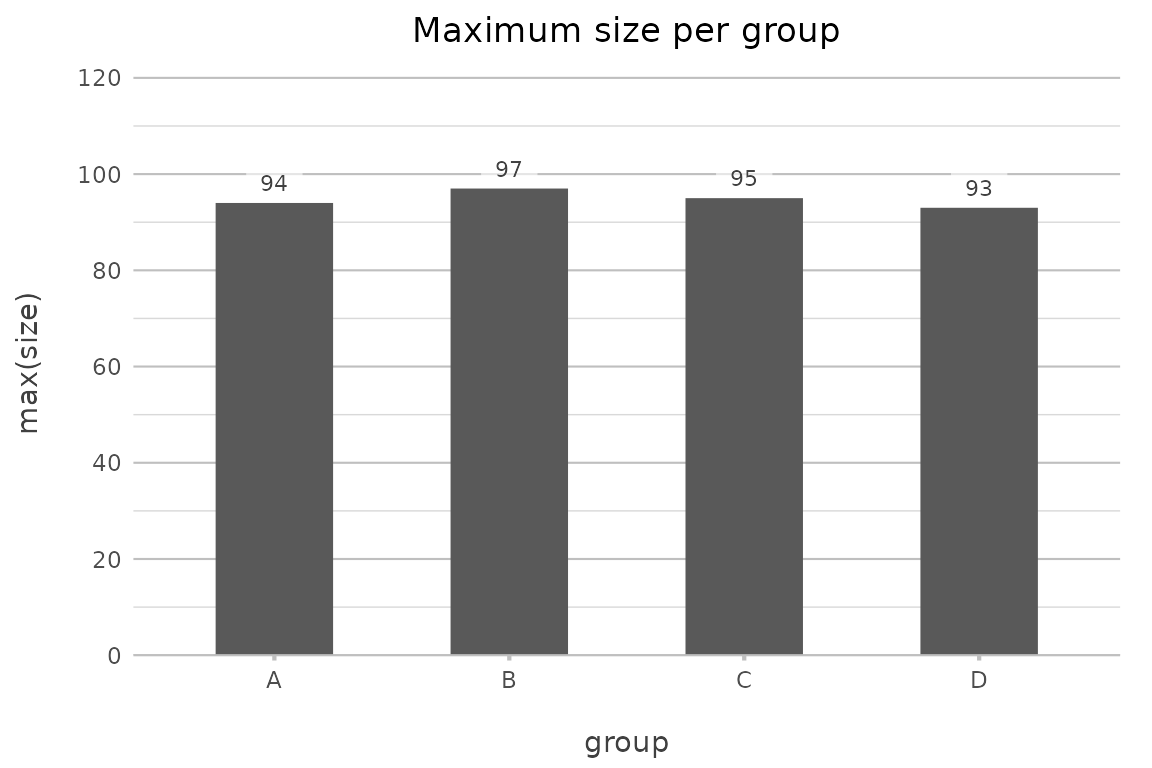
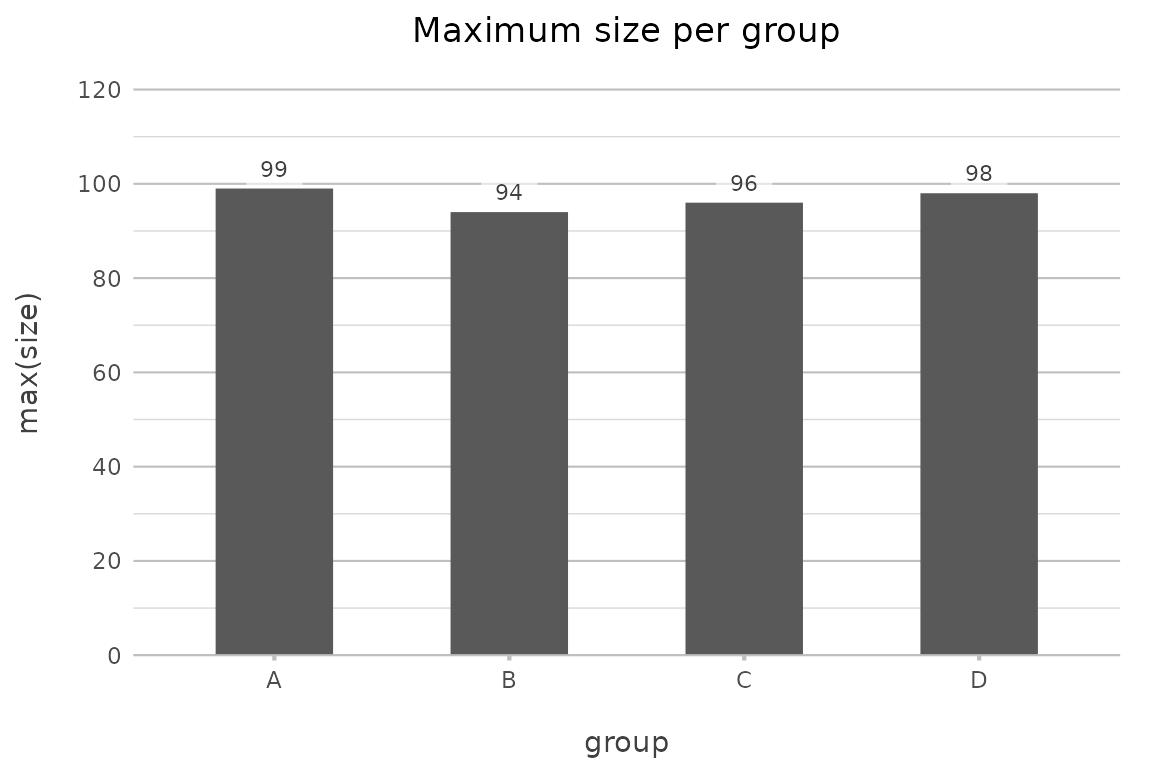
Built site for certeplot2: 1.23.8@2ec3c6a

diff --git a/reference/plotly.html b/reference/plotly.html
@@ -17,7 +17,7 @@
       </button>
       <span class="navbar-brand">
         <a class="navbar-link" href="../index.html">certeplot2</a>
-        <span class="version label label-default" data-toggle="tooltip" data-placement="bottom" title="">1.23.7</span>
+        <span class="version label label-default" data-toggle="tooltip" data-placement="bottom" title="">1.23.8</span>
       </span>
     </div>
 
@@ -107,7 +107,7 @@
 <span class="r-in"><span>  <span class="fu">as_plotly</span><span class="op">(</span><span class="op">)</span></span></span>
 <span class="r-msg co"><span class="r-pr">#&gt;</span> <span style="color: #008787;">i</span> <span style="color: #080808;">Using </span><span style="color: #008787;">type = "point"</span><span style="color: #080808;"> since both axes are numeric</span></span>
 <div id="htmlwidget-f7d45bed559e735076bb" style="width:700px;height:432.632880098888px;" class="plotly html-widget"></div>
-<script type="application/json" data-for="htmlwidget-f7d45bed559e735076bb">{"x":{"data":[{"x":[10.4,10.4,13.300000000000001,14.300000000000001,14.699999999999999,15,15.199999999999999,15.199999999999999,15.5,15.800000000000001,16.399999999999999,17.300000000000001,17.800000000000001,18.100000000000001,18.699999999999999,19.199999999999999,19.199999999999999,19.699999999999999,21,21,21.399999999999999,21.399999999999999,21.5,22.800000000000001,22.800000000000001,24.399999999999999,26,27.300000000000001,30.399999999999999,30.399999999999999,32.399999999999999,33.899999999999999],"y":[205,215,245,245,230,335,180,150,150,264,180,180,123,105,175,123,175,175,110,110,110,109,97,93,95,62,91,66,52,113,66,65],"text":["hp: 205<br />mpg: 10.4","hp: 215<br />mpg: 10.4","hp: 245<br />mpg: 13.3","hp: 245<br />mpg: 14.3","hp: 230<br />mpg: 14.7","hp: 335<br />mpg: 15.0","hp: 180<br />mpg: 15.2","hp: 150<br />mpg: 15.2","hp: 150<br />mpg: 15.5","hp: 264<br />mpg: 15.8","hp: 180<br />mpg: 16.4","hp: 180<br />mpg: 17.3","hp: 123<br />mpg: 17.8","hp: 105<br />mpg: 18.1","hp: 175<br />mpg: 18.7","hp: 123<br />mpg: 19.2","hp: 175<br />mpg: 19.2","hp: 175<br />mpg: 19.7","hp: 110<br />mpg: 21.0","hp: 110<br />mpg: 21.0","hp: 110<br />mpg: 21.4","hp: 109<br />mpg: 21.4","hp:  97<br />mpg: 21.5","hp:  93<br />mpg: 22.8","hp:  95<br />mpg: 22.8","hp:  62<br />mpg: 24.4","hp:  91<br />mpg: 26.0","hp:  66<br />mpg: 27.3","hp:  52<br />mpg: 30.4","hp: 113<br />mpg: 30.4","hp:  66<br />mpg: 32.4","hp:  65<br />mpg: 33.9"],"type":"scatter","mode":"markers","marker":{"autocolorscale":false,"color":"rgba(0,0,0,1)","opacity":1,"size":7.559055118110237,"symbol":"circle","line":{"width":1.8897637795275593,"color":"rgba(0,0,0,1)"}},"hoveron":"points","showlegend":false,"xaxis":"x","yaxis":"y","hoverinfo":"text","frame":null}],"layout":{"margin":{"t":39.910336239103358,"r":15.940224159402243,"b":35.599833955998349,"l":41.444582814445837},"plot_bgcolor":"rgba(255,255,255,1)","paper_bgcolor":"rgba(255,255,255,1)","font":{"color":"rgba(0,0,0,1)","family":"","size":14.611872146118724},"title":{"text":"Hp per mpg","font":{"color":"rgba(0,0,0,1)","family":"","size":17.268576172685762},"x":0.5,"xref":"paper"},"xaxis":{"domain":[0,1],"automargin":true,"type":"linear","autorange":false,"range":[-1.6950000000000001,35.594999999999999],"tickmode":"array","ticktext":["0","10","20","30"],"tickvals":[0,10,20,30],"categoryorder":"array","categoryarray":["0","10","20","30"],"nticks":null,"ticks":"outside","tickcolor":"rgba(191,191,191,1)","ticklen":2.6567040265670401,"tickwidth":0.9962640099626402,"showticklabels":true,"tickfont":{"color":"rgba(77,77,77,1)","family":"","size":11.68949771689498},"tickangle":-0,"showline":true,"linecolor":"rgba(191,191,191,1)","linewidth":0.4981320049813201,"showgrid":false,"gridcolor":null,"gridwidth":0,"zeroline":false,"anchor":"y","title":{"text":"mpg","font":{"color":"rgba(64,64,64,1)","family":"","size":14.611872146118724}},"hoverformat":".2f"},"yaxis":{"domain":[0,1],"automargin":true,"type":"linear","autorange":false,"range":[0,418.75],"tickmode":"array","ticktext":["0","100","200","300","400"],"tickvals":[0,100,200,300,400],"categoryorder":"array","categoryarray":["0","100","200","300","400"],"nticks":null,"ticks":"","tickcolor":null,"ticklen":2.6567040265670401,"tickwidth":0,"showticklabels":true,"tickfont":{"color":"rgba(77,77,77,1)","family":"","size":11.68949771689498},"tickangle":-0,"showline":false,"linecolor":null,"linewidth":0,"showgrid":true,"gridcolor":"rgba(191,191,191,1)","gridwidth":0.4981320049813201,"zeroline":false,"anchor":"x","title":{"text":"hp","font":{"color":"rgba(64,64,64,1)","family":"","size":14.611872146118724}},"hoverformat":".2f"},"shapes":[{"type":"rect","fillcolor":null,"line":{"color":null,"width":0,"linetype":[]},"yref":"paper","xref":"paper","x0":0,"x1":1,"y0":0,"y1":1}],"showlegend":false,"legend":{"bgcolor":null,"bordercolor":null,"borderwidth":0,"font":{"color":"rgba(0,0,0,1)","family":"","size":11.955168119551683},"title":{"text":"","font":{"color":"rgba(0,0,0,1)","family":"","size":13.283520132835198}}},"hovermode":"closest","barmode":"relative"},"config":{"doubleClick":"reset","modeBarButtonsToAdd":["hoverclosest","hovercompare"],"showSendToCloud":false},"source":"A","attrs":{"1b7b64a26a8a":{"y":{},"x":{},"type":"scatter"}},"cur_data":"1b7b64a26a8a","visdat":{"1b7b64a26a8a":["function (y) ","x"]},"highlight":{"on":"plotly_click","persistent":false,"dynamic":false,"selectize":false,"opacityDim":0.20000000000000001,"selected":{"opacity":1},"debounce":0},"shinyEvents":["plotly_hover","plotly_click","plotly_selected","plotly_relayout","plotly_brushed","plotly_brushing","plotly_clickannotation","plotly_doubleclick","plotly_deselect","plotly_afterplot","plotly_sunburstclick"],"base_url":"https://plot.ly"},"evals":[],"jsHooks":[]}</script><span class="r-in"><span>  </span></span>
+<script type="application/json" data-for="htmlwidget-f7d45bed559e735076bb">{"x":{"data":[{"x":[10.4,10.4,13.300000000000001,14.300000000000001,14.699999999999999,15,15.199999999999999,15.199999999999999,15.5,15.800000000000001,16.399999999999999,17.300000000000001,17.800000000000001,18.100000000000001,18.699999999999999,19.199999999999999,19.199999999999999,19.699999999999999,21,21,21.399999999999999,21.399999999999999,21.5,22.800000000000001,22.800000000000001,24.399999999999999,26,27.300000000000001,30.399999999999999,30.399999999999999,32.399999999999999,33.899999999999999],"y":[205,215,245,245,230,335,180,150,150,264,180,180,123,105,175,123,175,175,110,110,110,109,97,93,95,62,91,66,52,113,66,65],"text":["hp: 205<br />mpg: 10.4","hp: 215<br />mpg: 10.4","hp: 245<br />mpg: 13.3","hp: 245<br />mpg: 14.3","hp: 230<br />mpg: 14.7","hp: 335<br />mpg: 15.0","hp: 180<br />mpg: 15.2","hp: 150<br />mpg: 15.2","hp: 150<br />mpg: 15.5","hp: 264<br />mpg: 15.8","hp: 180<br />mpg: 16.4","hp: 180<br />mpg: 17.3","hp: 123<br />mpg: 17.8","hp: 105<br />mpg: 18.1","hp: 175<br />mpg: 18.7","hp: 123<br />mpg: 19.2","hp: 175<br />mpg: 19.2","hp: 175<br />mpg: 19.7","hp: 110<br />mpg: 21.0","hp: 110<br />mpg: 21.0","hp: 110<br />mpg: 21.4","hp: 109<br />mpg: 21.4","hp:  97<br />mpg: 21.5","hp:  93<br />mpg: 22.8","hp:  95<br />mpg: 22.8","hp:  62<br />mpg: 24.4","hp:  91<br />mpg: 26.0","hp:  66<br />mpg: 27.3","hp:  52<br />mpg: 30.4","hp: 113<br />mpg: 30.4","hp:  66<br />mpg: 32.4","hp:  65<br />mpg: 33.9"],"type":"scatter","mode":"markers","marker":{"autocolorscale":false,"color":"rgba(0,0,0,1)","opacity":1,"size":7.559055118110237,"symbol":"circle","line":{"width":1.8897637795275593,"color":"rgba(0,0,0,1)"}},"hoveron":"points","showlegend":false,"xaxis":"x","yaxis":"y","hoverinfo":"text","frame":null}],"layout":{"margin":{"t":39.910336239103358,"r":15.940224159402243,"b":35.599833955998349,"l":41.444582814445837},"plot_bgcolor":"rgba(255,255,255,1)","paper_bgcolor":"rgba(255,255,255,1)","font":{"color":"rgba(0,0,0,1)","family":"","size":14.611872146118724},"title":{"text":"Hp per mpg","font":{"color":"rgba(0,0,0,1)","family":"","size":17.268576172685762},"x":0.5,"xref":"paper"},"xaxis":{"domain":[0,1],"automargin":true,"type":"linear","autorange":false,"range":[-1.6950000000000001,35.594999999999999],"tickmode":"array","ticktext":["0","10","20","30"],"tickvals":[0,10,20,30],"categoryorder":"array","categoryarray":["0","10","20","30"],"nticks":null,"ticks":"outside","tickcolor":"rgba(191,191,191,1)","ticklen":2.6567040265670401,"tickwidth":0.9962640099626402,"showticklabels":true,"tickfont":{"color":"rgba(77,77,77,1)","family":"","size":11.68949771689498},"tickangle":-0,"showline":true,"linecolor":"rgba(191,191,191,1)","linewidth":0.4981320049813201,"showgrid":false,"gridcolor":null,"gridwidth":0,"zeroline":false,"anchor":"y","title":{"text":"mpg","font":{"color":"rgba(64,64,64,1)","family":"","size":14.611872146118724}},"hoverformat":".2f"},"yaxis":{"domain":[0,1],"automargin":true,"type":"linear","autorange":false,"range":[0,418.75],"tickmode":"array","ticktext":["0","100","200","300","400"],"tickvals":[0,100,200,300,400],"categoryorder":"array","categoryarray":["0","100","200","300","400"],"nticks":null,"ticks":"","tickcolor":null,"ticklen":2.6567040265670401,"tickwidth":0,"showticklabels":true,"tickfont":{"color":"rgba(77,77,77,1)","family":"","size":11.68949771689498},"tickangle":-0,"showline":false,"linecolor":null,"linewidth":0,"showgrid":true,"gridcolor":"rgba(191,191,191,1)","gridwidth":0.4981320049813201,"zeroline":false,"anchor":"x","title":{"text":"hp","font":{"color":"rgba(64,64,64,1)","family":"","size":14.611872146118724}},"hoverformat":".2f"},"shapes":[{"type":"rect","fillcolor":null,"line":{"color":null,"width":0,"linetype":[]},"yref":"paper","xref":"paper","x0":0,"x1":1,"y0":0,"y1":1}],"showlegend":false,"legend":{"bgcolor":null,"bordercolor":null,"borderwidth":0,"font":{"color":"rgba(0,0,0,1)","family":"","size":11.955168119551683},"title":{"text":"","font":{"color":"rgba(0,0,0,1)","family":"","size":13.283520132835198}}},"hovermode":"closest","barmode":"relative"},"config":{"doubleClick":"reset","modeBarButtonsToAdd":["hoverclosest","hovercompare"],"showSendToCloud":false},"source":"A","attrs":{"1be41adc1092":{"y":{},"x":{},"type":"scatter"}},"cur_data":"1be41adc1092","visdat":{"1be41adc1092":["function (y) ","x"]},"highlight":{"on":"plotly_click","persistent":false,"dynamic":false,"selectize":false,"opacityDim":0.20000000000000001,"selected":{"opacity":1},"debounce":0},"shinyEvents":["plotly_hover","plotly_click","plotly_selected","plotly_relayout","plotly_brushed","plotly_brushing","plotly_clickannotation","plotly_doubleclick","plotly_deselect","plotly_afterplot","plotly_sunburstclick"],"base_url":"https://plot.ly"},"evals":[],"jsHooks":[]}</script><span class="r-in"><span>  </span></span>
 <span class="r-in"><span><span class="va">mtcars</span> <span class="op">|&gt;</span></span></span>
 <span class="r-in"><span>  <span class="fu"><a href="plot2.html">plot2</a></span><span class="op">(</span><span class="va">mpg</span>, <span class="va">hp</span><span class="op">)</span> <span class="op">|&gt;</span> </span></span>
 <span class="r-in"><span>  <span class="fu">as_plotly</span><span class="op">(</span>dragmode <span class="op">=</span> <span class="st">"pan"</span><span class="op">)</span> <span class="op">|&gt;</span></span></span>
@@ -115,7 +115,7 @@
 <span class="r-in"><span>               hoverinfo <span class="op">=</span> <span class="st">"y"</span><span class="op">)</span></span></span>
 <span class="r-msg co"><span class="r-pr">#&gt;</span> <span style="color: #008787;">i</span> <span style="color: #080808;">Using </span><span style="color: #008787;">type = "point"</span><span style="color: #080808;"> since both axes are numeric</span></span>
 <div id="htmlwidget-364a8f0b2287430e8e1d" style="width:700px;height:432.632880098888px;" class="plotly html-widget"></div>
-<script type="application/json" data-for="htmlwidget-364a8f0b2287430e8e1d">{"x":{"data":[{"x":[10.4,10.4,13.300000000000001,14.300000000000001,14.699999999999999,15,15.199999999999999,15.199999999999999,15.5,15.800000000000001,16.399999999999999,17.300000000000001,17.800000000000001,18.100000000000001,18.699999999999999,19.199999999999999,19.199999999999999,19.699999999999999,21,21,21.399999999999999,21.399999999999999,21.5,22.800000000000001,22.800000000000001,24.399999999999999,26,27.300000000000001,30.399999999999999,30.399999999999999,32.399999999999999,33.899999999999999],"y":[205,215,245,245,230,335,180,150,150,264,180,180,123,105,175,123,175,175,110,110,110,109,97,93,95,62,91,66,52,113,66,65],"text":["hp: 205<br />mpg: 10.4","hp: 215<br />mpg: 10.4","hp: 245<br />mpg: 13.3","hp: 245<br />mpg: 14.3","hp: 230<br />mpg: 14.7","hp: 335<br />mpg: 15.0","hp: 180<br />mpg: 15.2","hp: 150<br />mpg: 15.2","hp: 150<br />mpg: 15.5","hp: 264<br />mpg: 15.8","hp: 180<br />mpg: 16.4","hp: 180<br />mpg: 17.3","hp: 123<br />mpg: 17.8","hp: 105<br />mpg: 18.1","hp: 175<br />mpg: 18.7","hp: 123<br />mpg: 19.2","hp: 175<br />mpg: 19.2","hp: 175<br />mpg: 19.7","hp: 110<br />mpg: 21.0","hp: 110<br />mpg: 21.0","hp: 110<br />mpg: 21.4","hp: 109<br />mpg: 21.4","hp:  97<br />mpg: 21.5","hp:  93<br />mpg: 22.8","hp:  95<br />mpg: 22.8","hp:  62<br />mpg: 24.4","hp:  91<br />mpg: 26.0","hp:  66<br />mpg: 27.3","hp:  52<br />mpg: 30.4","hp: 113<br />mpg: 30.4","hp:  66<br />mpg: 32.4","hp:  65<br />mpg: 33.9"],"type":"scatter","mode":"markers","marker":{"autocolorscale":false,"color":"rgba(0,0,0,1)","opacity":1,"size":7.559055118110237,"symbol":"circle","line":{"width":1.8897637795275593,"color":"red"}},"hoveron":"points","showlegend":false,"xaxis":"x","yaxis":"y","hoverinfo":"y","frame":null}],"layout":{"margin":{"t":39.910336239103358,"r":15.940224159402243,"b":35.599833955998349,"l":41.444582814445837},"plot_bgcolor":"rgba(255,255,255,1)","paper_bgcolor":"rgba(255,255,255,1)","font":{"color":"rgba(0,0,0,1)","family":"","size":14.611872146118724},"title":{"text":"Hp per mpg","font":{"color":"rgba(0,0,0,1)","family":"","size":17.268576172685762},"x":0.5,"xref":"paper"},"xaxis":{"domain":[0,1],"automargin":true,"type":"linear","autorange":false,"range":[-1.6950000000000001,35.594999999999999],"tickmode":"array","ticktext":["0","10","20","30"],"tickvals":[0,10,20,30],"categoryorder":"array","categoryarray":["0","10","20","30"],"nticks":null,"ticks":"outside","tickcolor":"rgba(191,191,191,1)","ticklen":2.6567040265670401,"tickwidth":0.9962640099626402,"showticklabels":true,"tickfont":{"color":"rgba(77,77,77,1)","family":"","size":11.68949771689498},"tickangle":-0,"showline":true,"linecolor":"rgba(191,191,191,1)","linewidth":0.4981320049813201,"showgrid":false,"gridcolor":null,"gridwidth":0,"zeroline":false,"anchor":"y","title":{"text":"mpg","font":{"color":"rgba(64,64,64,1)","family":"","size":14.611872146118724}},"hoverformat":".2f"},"yaxis":{"domain":[0,1],"automargin":true,"type":"linear","autorange":false,"range":[0,418.75],"tickmode":"array","ticktext":["0","100","200","300","400"],"tickvals":[0,100,200,300,400],"categoryorder":"array","categoryarray":["0","100","200","300","400"],"nticks":null,"ticks":"","tickcolor":null,"ticklen":2.6567040265670401,"tickwidth":0,"showticklabels":true,"tickfont":{"color":"rgba(77,77,77,1)","family":"","size":11.68949771689498},"tickangle":-0,"showline":false,"linecolor":null,"linewidth":0,"showgrid":true,"gridcolor":"rgba(191,191,191,1)","gridwidth":0.4981320049813201,"zeroline":false,"anchor":"x","title":{"text":"hp","font":{"color":"rgba(64,64,64,1)","family":"","size":14.611872146118724}},"hoverformat":".2f"},"shapes":[{"type":"rect","fillcolor":null,"line":{"color":null,"width":0,"linetype":[]},"yref":"paper","xref":"paper","x0":0,"x1":1,"y0":0,"y1":1}],"showlegend":false,"legend":{"bgcolor":null,"bordercolor":null,"borderwidth":0,"font":{"color":"rgba(0,0,0,1)","family":"","size":11.955168119551683},"title":{"text":"","font":{"color":"rgba(0,0,0,1)","family":"","size":13.283520132835198}}},"hovermode":"closest","barmode":"relative","dragmode":"pan"},"config":{"doubleClick":"reset","modeBarButtonsToAdd":["hoverclosest","hovercompare"],"showSendToCloud":false},"source":"A","attrs":{"1b7b42206344":{"y":{},"x":{},"type":"scatter"}},"cur_data":"1b7b42206344","visdat":{"1b7b42206344":["function (y) ","x"]},"highlight":{"on":"plotly_click","persistent":false,"dynamic":false,"selectize":false,"opacityDim":0.20000000000000001,"selected":{"opacity":1},"debounce":0},"shinyEvents":["plotly_hover","plotly_click","plotly_selected","plotly_relayout","plotly_brushed","plotly_brushing","plotly_clickannotation","plotly_doubleclick","plotly_deselect","plotly_afterplot","plotly_sunburstclick"],"base_url":"https://plot.ly"},"evals":[],"jsHooks":[]}</script><span class="r-in"><span></span></span>
+<script type="application/json" data-for="htmlwidget-364a8f0b2287430e8e1d">{"x":{"data":[{"x":[10.4,10.4,13.300000000000001,14.300000000000001,14.699999999999999,15,15.199999999999999,15.199999999999999,15.5,15.800000000000001,16.399999999999999,17.300000000000001,17.800000000000001,18.100000000000001,18.699999999999999,19.199999999999999,19.199999999999999,19.699999999999999,21,21,21.399999999999999,21.399999999999999,21.5,22.800000000000001,22.800000000000001,24.399999999999999,26,27.300000000000001,30.399999999999999,30.399999999999999,32.399999999999999,33.899999999999999],"y":[205,215,245,245,230,335,180,150,150,264,180,180,123,105,175,123,175,175,110,110,110,109,97,93,95,62,91,66,52,113,66,65],"text":["hp: 205<br />mpg: 10.4","hp: 215<br />mpg: 10.4","hp: 245<br />mpg: 13.3","hp: 245<br />mpg: 14.3","hp: 230<br />mpg: 14.7","hp: 335<br />mpg: 15.0","hp: 180<br />mpg: 15.2","hp: 150<br />mpg: 15.2","hp: 150<br />mpg: 15.5","hp: 264<br />mpg: 15.8","hp: 180<br />mpg: 16.4","hp: 180<br />mpg: 17.3","hp: 123<br />mpg: 17.8","hp: 105<br />mpg: 18.1","hp: 175<br />mpg: 18.7","hp: 123<br />mpg: 19.2","hp: 175<br />mpg: 19.2","hp: 175<br />mpg: 19.7","hp: 110<br />mpg: 21.0","hp: 110<br />mpg: 21.0","hp: 110<br />mpg: 21.4","hp: 109<br />mpg: 21.4","hp:  97<br />mpg: 21.5","hp:  93<br />mpg: 22.8","hp:  95<br />mpg: 22.8","hp:  62<br />mpg: 24.4","hp:  91<br />mpg: 26.0","hp:  66<br />mpg: 27.3","hp:  52<br />mpg: 30.4","hp: 113<br />mpg: 30.4","hp:  66<br />mpg: 32.4","hp:  65<br />mpg: 33.9"],"type":"scatter","mode":"markers","marker":{"autocolorscale":false,"color":"rgba(0,0,0,1)","opacity":1,"size":7.559055118110237,"symbol":"circle","line":{"width":1.8897637795275593,"color":"red"}},"hoveron":"points","showlegend":false,"xaxis":"x","yaxis":"y","hoverinfo":"y","frame":null}],"layout":{"margin":{"t":39.910336239103358,"r":15.940224159402243,"b":35.599833955998349,"l":41.444582814445837},"plot_bgcolor":"rgba(255,255,255,1)","paper_bgcolor":"rgba(255,255,255,1)","font":{"color":"rgba(0,0,0,1)","family":"","size":14.611872146118724},"title":{"text":"Hp per mpg","font":{"color":"rgba(0,0,0,1)","family":"","size":17.268576172685762},"x":0.5,"xref":"paper"},"xaxis":{"domain":[0,1],"automargin":true,"type":"linear","autorange":false,"range":[-1.6950000000000001,35.594999999999999],"tickmode":"array","ticktext":["0","10","20","30"],"tickvals":[0,10,20,30],"categoryorder":"array","categoryarray":["0","10","20","30"],"nticks":null,"ticks":"outside","tickcolor":"rgba(191,191,191,1)","ticklen":2.6567040265670401,"tickwidth":0.9962640099626402,"showticklabels":true,"tickfont":{"color":"rgba(77,77,77,1)","family":"","size":11.68949771689498},"tickangle":-0,"showline":true,"linecolor":"rgba(191,191,191,1)","linewidth":0.4981320049813201,"showgrid":false,"gridcolor":null,"gridwidth":0,"zeroline":false,"anchor":"y","title":{"text":"mpg","font":{"color":"rgba(64,64,64,1)","family":"","size":14.611872146118724}},"hoverformat":".2f"},"yaxis":{"domain":[0,1],"automargin":true,"type":"linear","autorange":false,"range":[0,418.75],"tickmode":"array","ticktext":["0","100","200","300","400"],"tickvals":[0,100,200,300,400],"categoryorder":"array","categoryarray":["0","100","200","300","400"],"nticks":null,"ticks":"","tickcolor":null,"ticklen":2.6567040265670401,"tickwidth":0,"showticklabels":true,"tickfont":{"color":"rgba(77,77,77,1)","family":"","size":11.68949771689498},"tickangle":-0,"showline":false,"linecolor":null,"linewidth":0,"showgrid":true,"gridcolor":"rgba(191,191,191,1)","gridwidth":0.4981320049813201,"zeroline":false,"anchor":"x","title":{"text":"hp","font":{"color":"rgba(64,64,64,1)","family":"","size":14.611872146118724}},"hoverformat":".2f"},"shapes":[{"type":"rect","fillcolor":null,"line":{"color":null,"width":0,"linetype":[]},"yref":"paper","xref":"paper","x0":0,"x1":1,"y0":0,"y1":1}],"showlegend":false,"legend":{"bgcolor":null,"bordercolor":null,"borderwidth":0,"font":{"color":"rgba(0,0,0,1)","family":"","size":11.955168119551683},"title":{"text":"","font":{"color":"rgba(0,0,0,1)","family":"","size":13.283520132835198}}},"hovermode":"closest","barmode":"relative","dragmode":"pan"},"config":{"doubleClick":"reset","modeBarButtonsToAdd":["hoverclosest","hovercompare"],"showSendToCloud":false},"source":"A","attrs":{"1be44763047f":{"y":{},"x":{},"type":"scatter"}},"cur_data":"1be44763047f","visdat":{"1be44763047f":["function (y) ","x"]},"highlight":{"on":"plotly_click","persistent":false,"dynamic":false,"selectize":false,"opacityDim":0.20000000000000001,"selected":{"opacity":1},"debounce":0},"shinyEvents":["plotly_hover","plotly_click","plotly_selected","plotly_relayout","plotly_brushed","plotly_brushing","plotly_clickannotation","plotly_doubleclick","plotly_deselect","plotly_afterplot","plotly_sunburstclick"],"base_url":"https://plot.ly"},"evals":[],"jsHooks":[]}</script><span class="r-in"><span></span></span>
 <span class="r-in"><span></span></span>
 <span class="r-in"><span><span class="kw">if</span> <span class="op">(</span><span class="cn">FALSE</span><span class="op">)</span> <span class="op">{</span></span></span>
 <span class="r-in"><span><span class="co"># in the certetoolbox package, this:</span></span></span>

diff --git a/articles/plot2.html b/articles/plot2.html
@@ -41,7 +41,7 @@
       </button>
       <span class="navbar-brand">
         <a class="navbar-link" href="../index.html">certeplot2</a>
-        <span class="version label label-default" data-toggle="tooltip" data-placement="bottom" title="">1.23.7</span>
+        <span class="version label label-default" data-toggle="tooltip" data-placement="bottom" title="">1.23.8</span>
       </span>
     </div>
 
@@ -237,7 +237,7 @@ be a histogram:</p>
 <span>  <span class="fu"><a href="../reference/plot2.html">plot2</a></span><span class="op">(</span><span class="op">)</span></span>
 <span><span class="co">#&gt; <span style="color: #008787;">i</span> <span style="color: #080808;">Using </span><span style="color: #008787;">x = x</span></span></span>
 <span><span class="co">#&gt; <span style="color: #008787;">i</span> <span style="color: #080808;">Assuming </span><span style="color: #008787;">type = "histogram"</span><span style="color: #080808;"> since the data has only one numeric variable and no other variables</span></span></span>
-<span><span class="co">#&gt; <span style="color: #008787;">i</span> <span style="color: #080808;">Using </span><span style="color: #008787;">binwidth = 0.303</span><span style="color: #080808;"> based on data</span></span></span>
+<span><span class="co">#&gt; <span style="color: #008787;">i</span> <span style="color: #080808;">Using </span><span style="color: #008787;">binwidth = 0.313</span><span style="color: #080808;"> based on data</span></span></span>
 <span><span class="co">#&gt; <span style="color: #008787;">i</span> <span style="color: #080808;">Assuming </span><span style="color: #008787;">smooth = TRUE</span><span style="color: #080808;"> for </span><span style="color: #008787;">type = "histogram"</span></span></span></code></pre></div>
 <p><img src="plot2_files/figure-html/unnamed-chunk-4-1.png" width="576"></p>
 <p>If there are multiple y values for each x, the default will be a
@@ -414,16 +414,16 @@ categorising on years:</p>
 <span><span class="co">#&gt; <span style="color: #949494;"># A tibble: 1,461 × 2</span></span></span>
 <span><span class="co">#&gt;    x              y</span></span>
 <span><span class="co">#&gt;    <span style="color: #949494; font-style: italic;">&lt;date&gt;</span>     <span style="color: #949494; font-style: italic;">&lt;dbl&gt;</span></span></span>
-<span><span class="co">#&gt; <span style="color: #BCBCBC;"> 1</span> 2020-01-01 1.01 </span></span>
-<span><span class="co">#&gt; <span style="color: #BCBCBC;"> 2</span> 2020-01-02 0.869</span></span>
-<span><span class="co">#&gt; <span style="color: #BCBCBC;"> 3</span> 2020-01-03 0.965</span></span>
-<span><span class="co">#&gt; <span style="color: #BCBCBC;"> 4</span> 2020-01-04 1.09 </span></span>
-<span><span class="co">#&gt; <span style="color: #BCBCBC;"> 5</span> 2020-01-05 0.980</span></span>
-<span><span class="co">#&gt; <span style="color: #BCBCBC;"> 6</span> 2020-01-06 1.09 </span></span>
-<span><span class="co">#&gt; <span style="color: #BCBCBC;"> 7</span> 2020-01-07 1.00 </span></span>
-<span><span class="co">#&gt; <span style="color: #BCBCBC;"> 8</span> 2020-01-08 0.939</span></span>
-<span><span class="co">#&gt; <span style="color: #BCBCBC;"> 9</span> 2020-01-09 0.959</span></span>
-<span><span class="co">#&gt; <span style="color: #BCBCBC;">10</span> 2020-01-10 1.01 </span></span>
+<span><span class="co">#&gt; <span style="color: #BCBCBC;"> 1</span> 2020-01-01 0.892</span></span>
+<span><span class="co">#&gt; <span style="color: #BCBCBC;"> 2</span> 2020-01-02 0.880</span></span>
+<span><span class="co">#&gt; <span style="color: #BCBCBC;"> 3</span> 2020-01-03 0.966</span></span>
+<span><span class="co">#&gt; <span style="color: #BCBCBC;"> 4</span> 2020-01-04 1.06 </span></span>
+<span><span class="co">#&gt; <span style="color: #BCBCBC;"> 5</span> 2020-01-05 1.03 </span></span>
+<span><span class="co">#&gt; <span style="color: #BCBCBC;"> 6</span> 2020-01-06 0.999</span></span>
+<span><span class="co">#&gt; <span style="color: #BCBCBC;"> 7</span> 2020-01-07 0.975</span></span>
+<span><span class="co">#&gt; <span style="color: #BCBCBC;"> 8</span> 2020-01-08 1.07 </span></span>
+<span><span class="co">#&gt; <span style="color: #BCBCBC;"> 9</span> 2020-01-09 0.853</span></span>
+<span><span class="co">#&gt; <span style="color: #BCBCBC;">10</span> 2020-01-10 0.921</span></span>
 <span><span class="co">#&gt; <span style="color: #949494;"># ℹ 1,451 more rows</span></span></span>
 <span><span class="va">sample_df</span> <span class="op">|&gt;</span> </span>
 <span>  <span class="fu"><a href="../reference/plot2.html">plot2</a></span><span class="op">(</span><span class="va">x</span>, <span class="va">y</span>, type <span class="op">=</span> <span class="st">"l"</span>,</span>
@@ -488,12 +488,12 @@ of scale automatically:</p>
 <span>                          stringsAsFactors <span class="op">=</span> <span class="cn">FALSE</span><span class="op">)</span></span>
 <span><span class="fu"><a href="https://rdrr.io/r/utils/head.html" class="external-link">head</a></span><span class="op">(</span><span class="va">character_z</span><span class="op">)</span></span>
 <span><span class="co">#&gt;   x        y z</span></span>
-<span><span class="co">#&gt; 1 a 3.909216 K</span></span>
-<span><span class="co">#&gt; 2 b 4.773464 L</span></span>
-<span><span class="co">#&gt; 3 c 6.209312 K</span></span>
-<span><span class="co">#&gt; 4 d 6.256334 L</span></span>
-<span><span class="co">#&gt; 5 e 4.590880 K</span></span>
-<span><span class="co">#&gt; 6 a 6.268174 L</span></span>
+<span><span class="co">#&gt; 1 a 3.856612 K</span></span>
+<span><span class="co">#&gt; 2 b 5.156780 L</span></span>
+<span><span class="co">#&gt; 3 c 4.126336 K</span></span>
+<span><span class="co">#&gt; 4 d 4.948747 L</span></span>
+<span><span class="co">#&gt; 5 e 5.651935 K</span></span>
+<span><span class="co">#&gt; 6 a 7.415903 L</span></span>
 <span></span>
 <span><span class="va">numeric_z</span> <span class="op">&lt;-</span> <span class="fu"><a href="https://rdrr.io/r/base/data.frame.html" class="external-link">data.frame</a></span><span class="op">(</span>x <span class="op">=</span> <span class="fu"><a href="https://rdrr.io/r/base/rep.html" class="external-link">rep</a></span><span class="op">(</span><span class="va">letters</span><span class="op">[</span><span class="fl">1</span><span class="op">:</span><span class="fl">5</span><span class="op">]</span>, <span class="fl">10</span><span class="op">)</span>,</span>
 <span>                        y <span class="op">=</span> <span class="fu"><a href="https://rdrr.io/r/stats/Normal.html" class="external-link">rnorm</a></span><span class="op">(</span><span class="fl">50</span>, <span class="fl">5</span><span class="op">)</span>,</span>
@@ -502,12 +502,12 @@ of scale automatically:</p>
 <span>                        stringsAsFactors <span class="op">=</span> <span class="cn">FALSE</span><span class="op">)</span></span>
 <span><span class="fu"><a href="https://rdrr.io/r/utils/head.html" class="external-link">head</a></span><span class="op">(</span><span class="va">numeric_z</span><span class="op">)</span></span>
 <span><span class="co">#&gt;   x        y        z</span></span>
-<span><span class="co">#&gt; 1 a 4.721976 5.821943</span></span>
-<span><span class="co">#&gt; 2 b 4.656819 6.930372</span></span>
-<span><span class="co">#&gt; 3 c 4.512648 3.279227</span></span>
-<span><span class="co">#&gt; 4 d 3.851809 6.163975</span></span>
-<span><span class="co">#&gt; 5 e 5.799415 5.267763</span></span>
-<span><span class="co">#&gt; 6 a 5.544324 4.427126</span></span>
+<span><span class="co">#&gt; 1 a 6.437380 4.368022</span></span>
+<span><span class="co">#&gt; 2 b 4.876297 5.947645</span></span>
+<span><span class="co">#&gt; 3 c 4.492807 5.147977</span></span>
+<span><span class="co">#&gt; 4 d 4.388212 4.803545</span></span>
+<span><span class="co">#&gt; 5 e 4.257008 3.507236</span></span>
+<span><span class="co">#&gt; 6 a 3.784678 5.745359</span></span>
 <span></span>
 <span><span class="va">character_z</span> <span class="op">|&gt;</span> </span>
 <span>    <span class="fu"><a href="../reference/plot2.html">plot2</a></span><span class="op">(</span><span class="va">x</span>, <span class="va">y</span>, <span class="va">z</span>, type <span class="op">=</span> <span class="st">"jitter"</span>,</span>
@@ -531,7 +531,7 @@ colour, it defaults to the centre of the current legend scale:</p>
 <span>    <span class="fu"><a href="../reference/plot2.html">plot2</a></span><span class="op">(</span><span class="va">x</span>, <span class="va">y</span>, <span class="va">z</span>,</span>
 <span>          type <span class="op">=</span> <span class="st">"jitter"</span>,</span>
 <span>          colour <span class="op">=</span> <span class="fu"><a href="https://rdrr.io/r/base/c.html" class="external-link">c</a></span><span class="op">(</span><span class="st">"red"</span>, <span class="st">"green"</span>, <span class="st">"blue"</span><span class="op">)</span><span class="op">)</span></span>
-<span><span class="co">#&gt; <span style="color: #008787;">i</span> <span style="color: #080808;">Using </span><span style="color: #008787;">category.midpoint = 5.19</span><span style="color: #080808;"> (the current </span><span style="color: #008787;">category</span><span style="color: #080808;"> scale centre)</span></span></span></code></pre></div>
+<span><span class="co">#&gt; <span style="color: #008787;">i</span> <span style="color: #080808;">Using </span><span style="color: #008787;">category.midpoint = 4.79</span><span style="color: #080808;"> (the current </span><span style="color: #008787;">category</span><span style="color: #080808;"> scale centre)</span></span></span></code></pre></div>
 <p><img src="plot2_files/figure-html/unnamed-chunk-15-1.png" width="576"></p>
 <div class="sourceCode" id="cb22"><pre class="downlit sourceCode r">
 <code class="sourceCode R"><span><span class="va">numeric_z</span> <span class="op">|&gt;</span>  </span>
@@ -900,18 +900,18 @@ while taking into account all plotting directions, such as
 <span>                 size <span class="op">=</span> <span class="fu"><a href="https://rdrr.io/r/base/Round.html" class="external-link">round</a></span><span class="op">(</span><span class="fu"><a href="https://rdrr.io/r/stats/Uniform.html" class="external-link">runif</a></span><span class="op">(</span><span class="fl">40</span>, min <span class="op">=</span> <span class="fl">10</span>, max <span class="op">=</span> <span class="fl">100</span><span class="op">)</span><span class="op">)</span><span class="op">)</span></span>
 <span><span class="fu"><a href="https://rdrr.io/r/utils/head.html" class="external-link">head</a></span><span class="op">(</span><span class="va">df</span>, n <span class="op">=</span> <span class="fl">12</span><span class="op">)</span></span>
 <span><span class="co">#&gt;    group size</span></span>
-<span><span class="co">#&gt; 1      A   43</span></span>
-<span><span class="co">#&gt; 2      A   26</span></span>
-<span><span class="co">#&gt; 3      A   69</span></span>
-<span><span class="co">#&gt; 4      A   94</span></span>
-<span><span class="co">#&gt; 5      A   10</span></span>
-<span><span class="co">#&gt; 6      A   75</span></span>
-<span><span class="co">#&gt; 7      A   92</span></span>
-<span><span class="co">#&gt; 8      A   78</span></span>
-<span><span class="co">#&gt; 9      A   66</span></span>
-<span><span class="co">#&gt; 10     A   91</span></span>
-<span><span class="co">#&gt; 11     B   97</span></span>
-<span><span class="co">#&gt; 12     B   53</span></span>
+<span><span class="co">#&gt; 1      A   41</span></span>
+<span><span class="co">#&gt; 2      A   23</span></span>
+<span><span class="co">#&gt; 3      A   38</span></span>
+<span><span class="co">#&gt; 4      A   25</span></span>
+<span><span class="co">#&gt; 5      A   56</span></span>
+<span><span class="co">#&gt; 6      A   37</span></span>
+<span><span class="co">#&gt; 7      A   84</span></span>
+<span><span class="co">#&gt; 8      A   55</span></span>
+<span><span class="co">#&gt; 9      A   99</span></span>
+<span><span class="co">#&gt; 10     A   48</span></span>
+<span><span class="co">#&gt; 11     B   68</span></span>
+<span><span class="co">#&gt; 12     B   46</span></span>
 <span></span>
 <span><span class="va">df</span> <span class="op">|&gt;</span></span>
 <span>  <span class="fu"><a href="../reference/plot2.html">plot2</a></span><span class="op">(</span><span class="va">group</span>, <span class="fu"><a href="https://certe-medical-epidemiology.github.io/certestats/reference/math_functions.html" class="external-link">max</a></span><span class="op">(</span><span class="va">size</span><span class="op">)</span><span class="op">)</span></span></code></pre></div>

diff --git a/authors.html b/authors.html
@@ -17,7 +17,7 @@
       </button>
       <span class="navbar-brand">
         <a class="navbar-link" href="index.html">certeplot2</a>
-        <span class="version label label-default" data-toggle="tooltip" data-placement="bottom" title="">1.23.7</span>
+        <span class="version label label-default" data-toggle="tooltip" data-placement="bottom" title="">1.23.8</span>
       </span>
     </div>
 
@@ -101,13 +101,13 @@
 
     <p>Berends MS, Hassing EEA (2024).
 <em>certeplot2: A Certe R Package for Convenient Plotting</em>.
-R package version 1.23.7, https://github.com/certe-medical-epidemiology/certeplot2, <a href="https://certe-medical-epidemiology.github.io/certeplot2">https://certe-medical-epidemiology.github.io/certeplot2</a>. 
+R package version 1.23.8, https://github.com/certe-medical-epidemiology/certeplot2, <a href="https://certe-medical-epidemiology.github.io/certeplot2">https://certe-medical-epidemiology.github.io/certeplot2</a>. 
 </p>
     <pre>@Manual{,
   title = {certeplot2: A Certe R Package for Convenient Plotting},
   author = {Matthijs S. Berends and Erwin E. A. Hassing},
   year = {2024},
-  note = {R package version 1.23.7, https://github.com/certe-medical-epidemiology/certeplot2},
+  note = {R package version 1.23.8, https://github.com/certe-medical-epidemiology/certeplot2},
   url = {https://certe-medical-epidemiology.github.io/certeplot2},
 }</pre>
 

diff --git a/reference/plot2.html b/reference/plot2.html
@@ -19,7 +19,7 @@ See plot2-methods for all implemented methods for different object classes."><me
       </button>
       <span class="navbar-brand">
         <a class="navbar-link" href="../index.html">certeplot2</a>
-        <span class="version label label-default" data-toggle="tooltip" data-placement="bottom" title="">1.23.7</span>
+        <span class="version label label-default" data-toggle="tooltip" data-placement="bottom" title="">1.23.8</span>
       </span>
     </div>
 

diff --git a/404.html b/404.html
@@ -40,7 +40,7 @@
       </button>
       <span class="navbar-brand">
         <a class="navbar-link" href="https://certe-medical-epidemiology.github.io/certeplot2/index.html">certeplot2</a>
-        <span class="version label label-default" data-toggle="tooltip" data-placement="bottom" title="">1.23.7</span>
+        <span class="version label label-default" data-toggle="tooltip" data-placement="bottom" title="">1.23.8</span>
       </span>
     </div>
 

diff --git a/reference/reexports.html b/reference/reexports.html
@@ -32,7 +32,7 @@ ends_with, everything, matches, starts_with, where
       </button>
       <span class="navbar-brand">
         <a class="navbar-link" href="../index.html">certeplot2</a>
-        <span class="version label label-default" data-toggle="tooltip" data-placement="bottom" title="">1.23.7</span>
+        <span class="version label label-default" data-toggle="tooltip" data-placement="bottom" title="">1.23.8</span>
       </span>
     </div>
 

diff --git a/articles/index.html b/articles/index.html
@@ -17,7 +17,7 @@
       </button>
       <span class="navbar-brand">
         <a class="navbar-link" href="../index.html">certeplot2</a>
-        <span class="version label label-default" data-toggle="tooltip" data-placement="bottom" title="">1.23.7</span>
+        <span class="version label label-default" data-toggle="tooltip" data-placement="bottom" title="">1.23.8</span>
       </span>
     </div>
 

diff --git a/reference/add_mapping.html b/reference/add_mapping.html
@@ -17,7 +17,7 @@
       </button>
       <span class="navbar-brand">
         <a class="navbar-link" href="../index.html">certeplot2</a>
-        <span class="version label label-default" data-toggle="tooltip" data-placement="bottom" title="">1.23.7</span>
+        <span class="version label label-default" data-toggle="tooltip" data-placement="bottom" title="">1.23.8</span>
       </span>
     </div>
 

diff --git a/reference/add_type.html b/reference/add_type.html
@@ -17,7 +17,7 @@
       </button>
       <span class="navbar-brand">
         <a class="navbar-link" href="../index.html">certeplot2</a>
-        <span class="version label label-default" data-toggle="tooltip" data-placement="bottom" title="">1.23.7</span>
+        <span class="version label label-default" data-toggle="tooltip" data-placement="bottom" title="">1.23.8</span>
       </span>
     </div>
 

diff --git a/reference/admitted_patients.html b/reference/admitted_patients.html
@@ -17,7 +17,7 @@
       </button>
       <span class="navbar-brand">
         <a class="navbar-link" href="../index.html">certeplot2</a>
-        <span class="version label label-default" data-toggle="tooltip" data-placement="bottom" title="">1.23.7</span>
+        <span class="version label label-default" data-toggle="tooltip" data-placement="bottom" title="">1.23.8</span>
       </span>
     </div>
 

diff --git a/reference/certeplot2-package.html b/reference/certeplot2-package.html
@@ -17,7 +17,7 @@
       </button>
       <span class="navbar-brand">
         <a class="navbar-link" href="../index.html">certeplot2</a>
-        <span class="version label label-default" data-toggle="tooltip" data-placement="bottom" title="">1.23.7</span>
+        <span class="version label label-default" data-toggle="tooltip" data-placement="bottom" title="">1.23.8</span>
       </span>
     </div>
 

diff --git a/reference/get_plot_title.html b/reference/get_plot_title.html
@@ -17,7 +17,7 @@
       </button>
       <span class="navbar-brand">
         <a class="navbar-link" href="../index.html">certeplot2</a>
-        <span class="version label label-default" data-toggle="tooltip" data-placement="bottom" title="">1.23.7</span>
+        <span class="version label label-default" data-toggle="tooltip" data-placement="bottom" title="">1.23.8</span>
       </span>
     </div>
 
